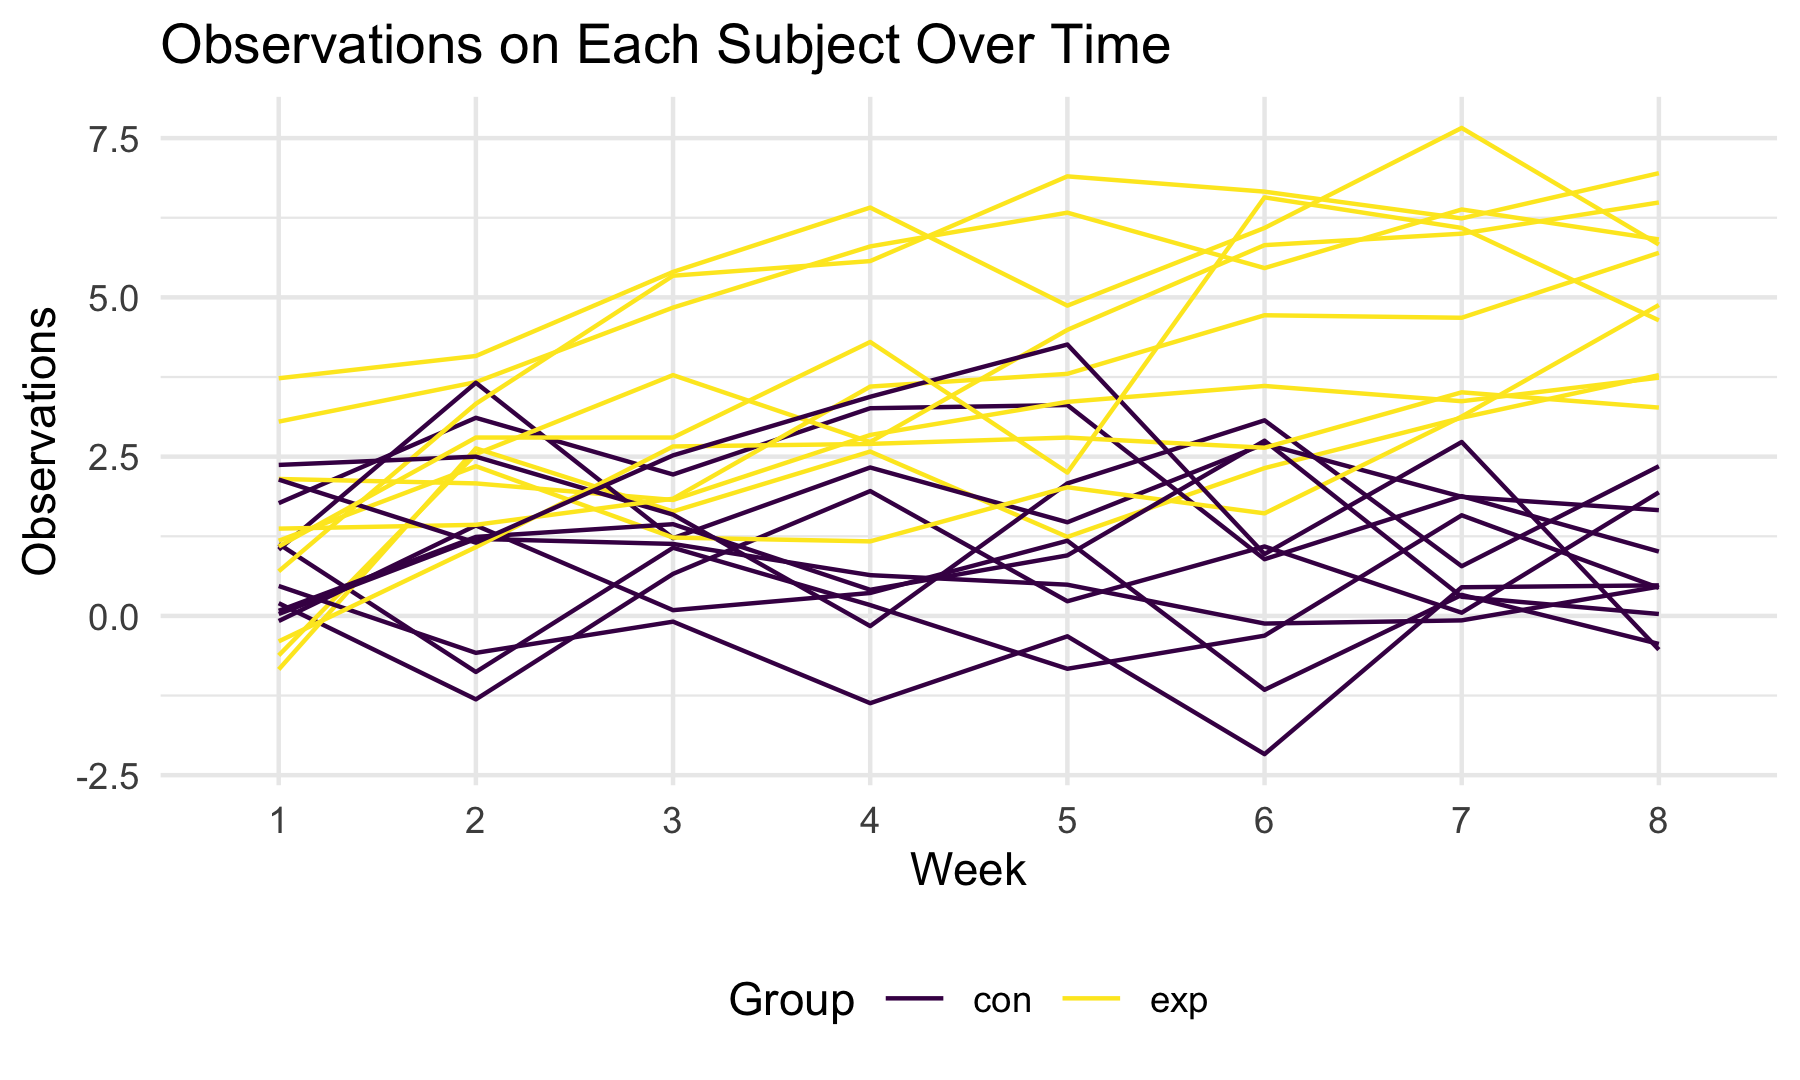
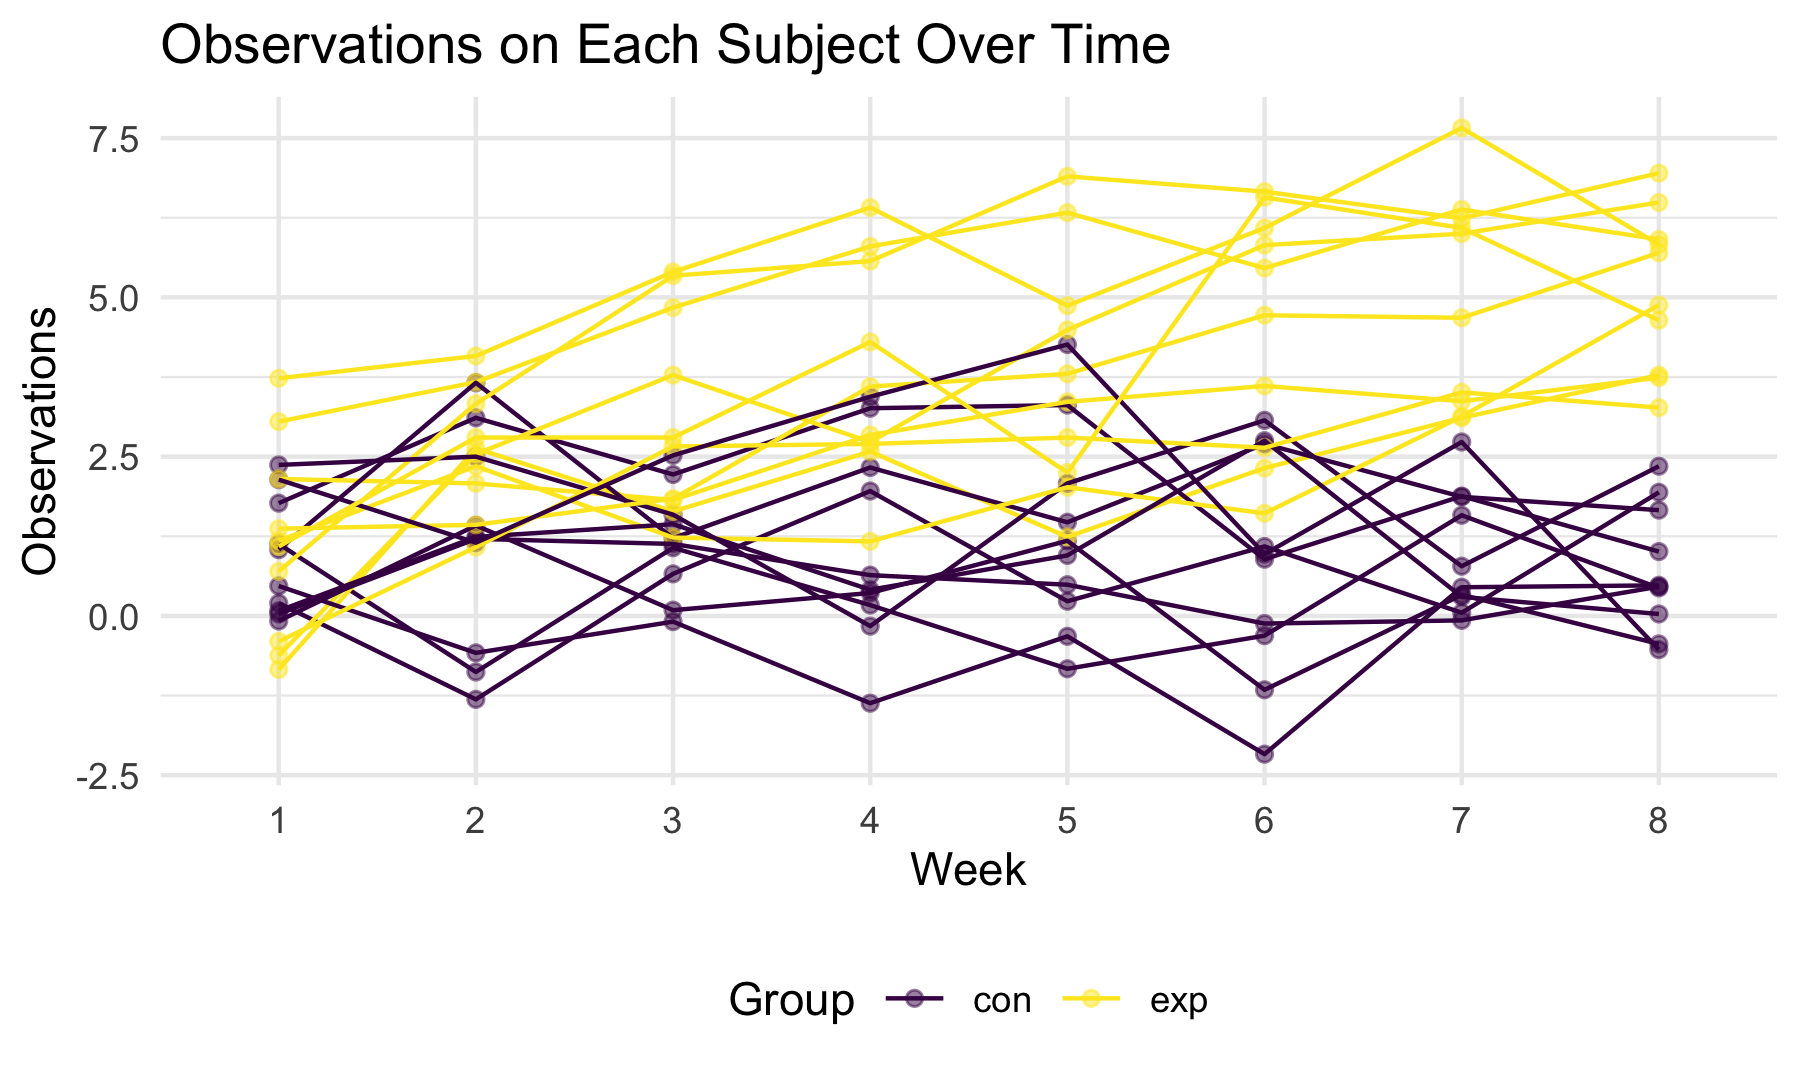
final version

diff --git a/p8105_hw5_ly2565.md b/p8105_hw5_ly2565.md
@@ -156,6 +156,7 @@ Make a spaghetti plot showing observations on each subject over time.
 ``` r
 df %>% 
   ggplot(aes(x = week, y = observation, group = interaction(group, id), color = group)) +
+  geom_point(alpha = 0.5) +
   geom_line() +
   labs(
     x = "Week",
@@ -167,15 +168,15 @@ df %>%
 
 <img src="p8105_hw5_ly2565_files/figure-gfm/unnamed-chunk-7-1.png" width="90%" />
 Based on the plot, observations on participants from the experimental
-arm are, in general, higher than the control arm.
+arm increase over time, whereas the control arm doesn’t seem to have a
+significant difference in overall. Starting from week 2, observations
+from the experimental arm are generally higher than the control arm.
 
 ## Problem 3
 
 Load the iris dataset and introduce some missing values.
 
 ``` r
-library(tidyverse)
-
 set.seed(10)
 
 iris_with_missing = iris %>% 
@@ -183,18 +184,22 @@ iris_with_missing = iris %>%
   mutate(Species = as.character(Species))
 ```
 
-Write a function that replaces missing values.
+Write a function that takes a vector as an argument and replaces missing
+values.  
+For numeric variables, fill in missing values with the mean of
+non-missing values;  
+For character variables, fill in missing values with “Virginica”.
 
 ``` r
-fill_na = function(x) {
-  if (is.numeric(x)) {
-    x = replace_na(x, mean(x, na.rm = TRUE))
+fill_na = function(vec) {
+  if (is.numeric(vec)) {
+    vec = replace_na(vec, mean(vec, na.rm = TRUE))
   }
-  if (is.character(x)) {
-    x = replace_na(x, "Virginica")
+  if (is.character(vec)) {
+    vec = replace_na(vec, "Virginica")
   }
   
-  x
+  vec
 }
 ```
 
@@ -202,7 +207,9 @@ Apply this function to the dataframe `iris_with_missing` to get a
 dataframe without missing values.
 
 ``` r
-iris_no_missing = map_df(iris_with_missing, fill_na)
+iris_no_missing = map(iris_with_missing, fill_na) %>% 
+  as.tibble()
+
 iris_no_missing
 ```
 
